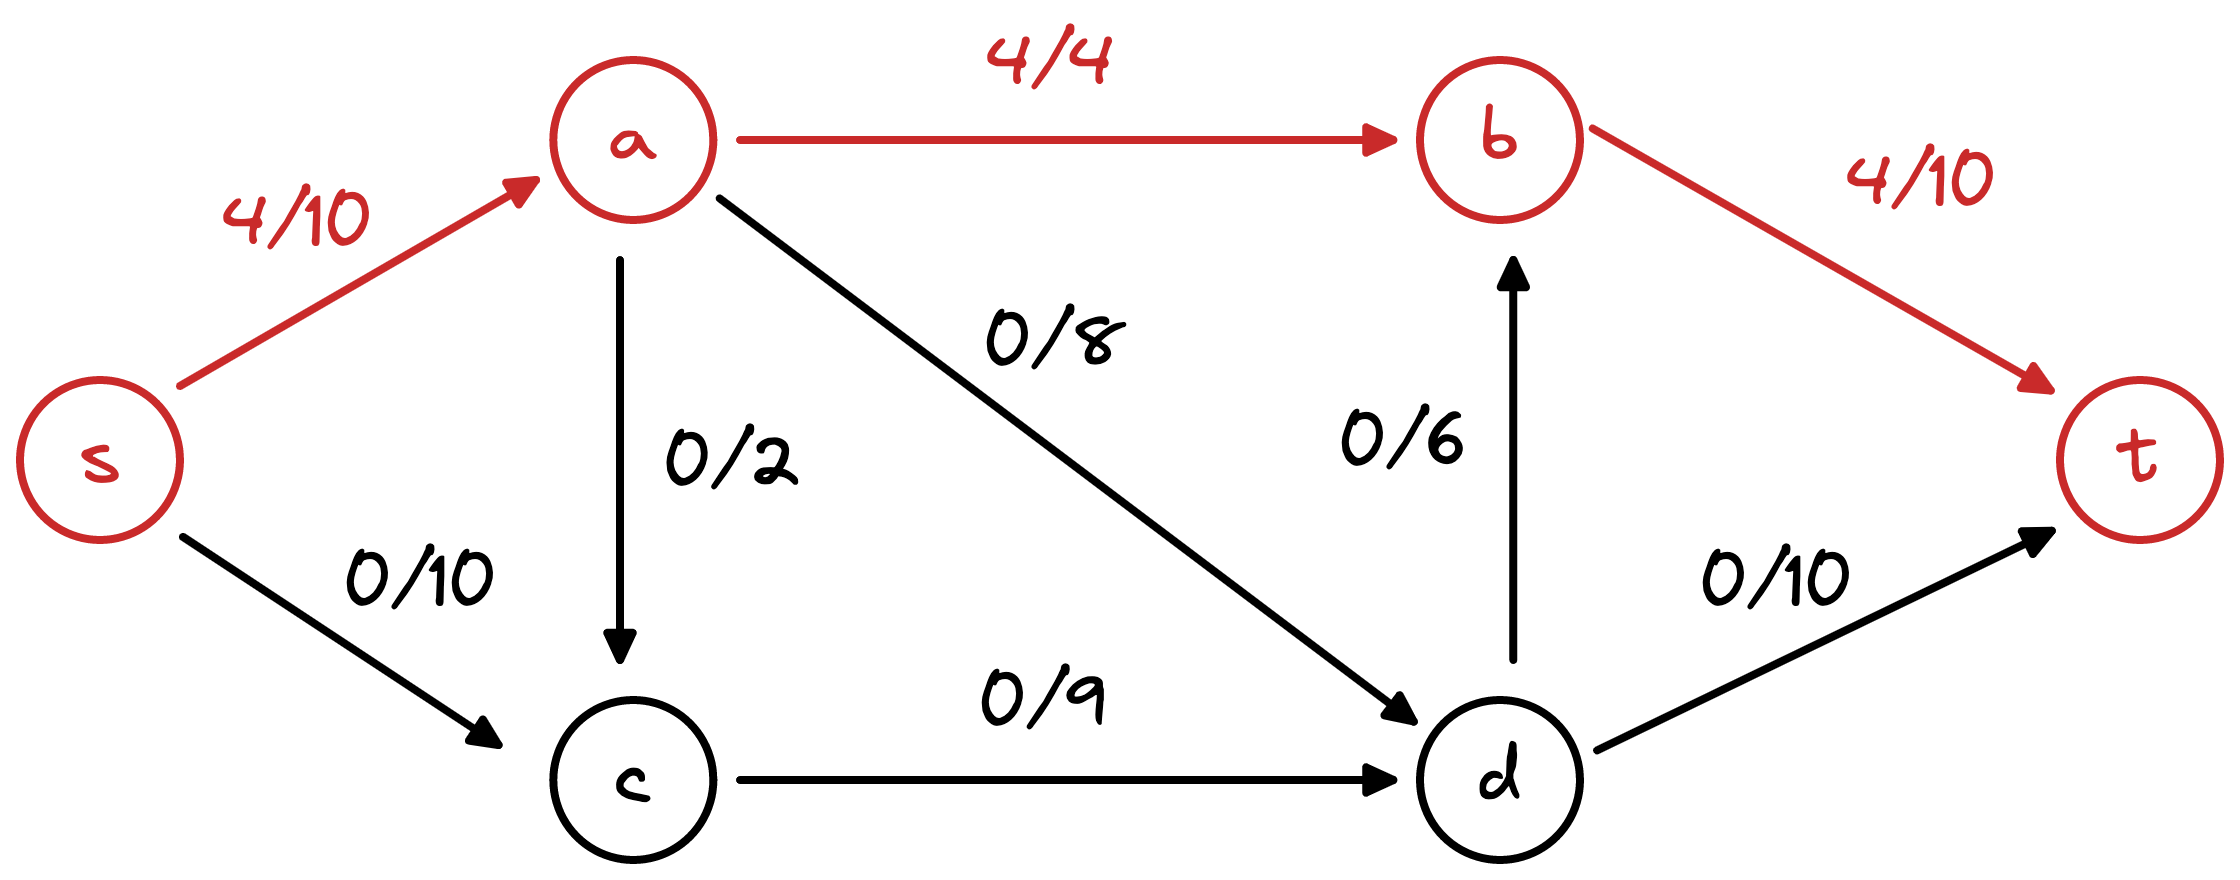
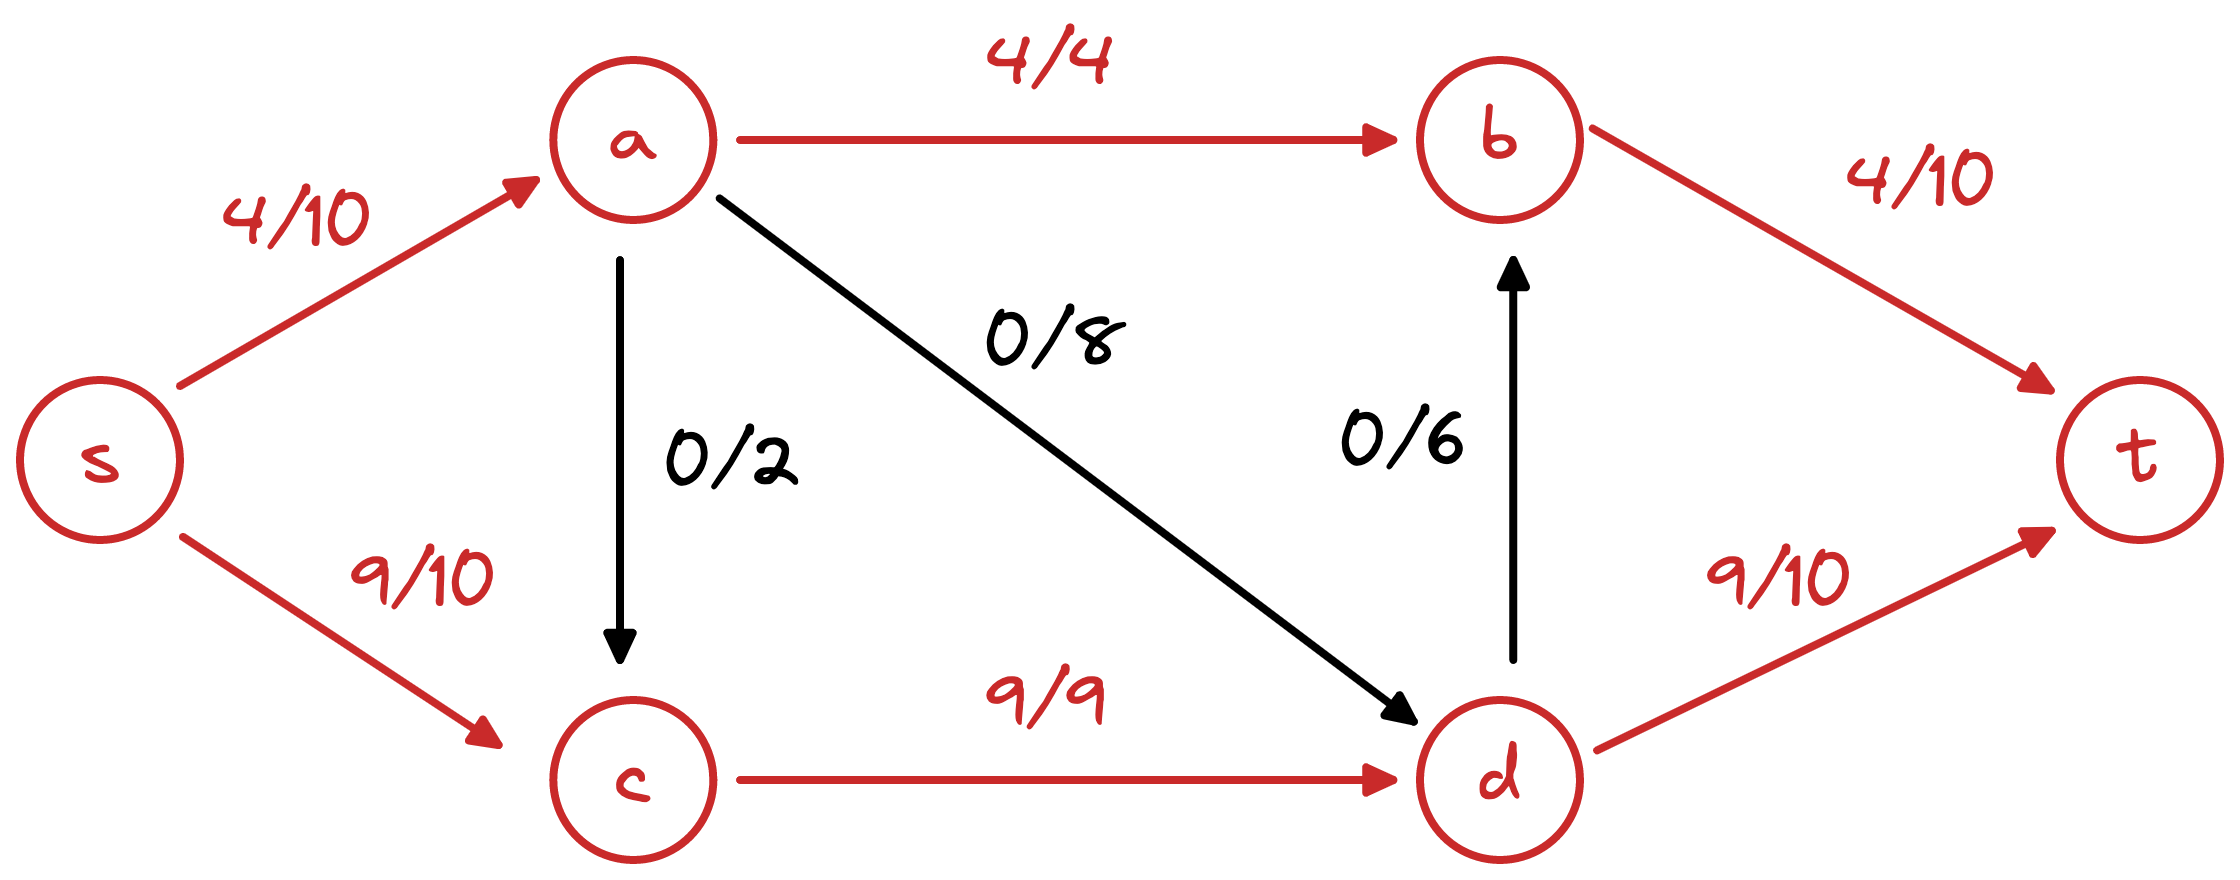
GitBook: [#4] No subject

diff --git a/di-liu-jiang-wang-luo-liu/6.1-zui-da-liu-wen-ti-fordfulkerson-suan-fa.md b/di-liu-jiang-wang-luo-liu/6.1-zui-da-liu-wen-ti-fordfulkerson-suan-fa.md
@@ -1,0 +1,56 @@
+# 6.1 最大流问题 & Ford-Fulkerson算法
+
+## 最大流问题
+
+### 直观理解
+
+给定如下的有向图(directed graph) $$G(V,E)$$：
+
+* 每条边上的数值对应于该边的容量(capacity)，即允许通过该边的最大值。
+* 节点s与节点t表示流(flow)的起始与终止位置。
+* 对于这样的图，我们称之为网络流图(flow network)。
+
+<figure><img src="../.gitbook/assets/第六讲-1.png" alt="directed graph"><figcaption><p>flow network</p></figcaption></figure>
+
+
+
+在flow network中，我们可以有如下的flow，其中<mark style="color:red;">4/10</mark>(左上角的边)表示边的capacity为10，通过该边的flow的值为4。
+
+<figure><img src="../.gitbook/assets/image.png" alt=""><figcaption><p>example 1 </p></figcaption></figure>
+
+除了上面的，我们还可以有其他的flow：
+
+<figure><img src="../.gitbook/assets/image (2).png" alt=""><figcaption><p>example 2</p></figcaption></figure>
+
+所以问题在于，给定一个上述的flow network，如何找到该network允许通过的flow的最大值？
+
+> Given a flow network, find a flow of maximum possible value
+
+举一个实际中的例子，我们可以将边考虑成水管，节点认为是阀门。最大流问题就成了：如何确定一个互相连通的系统中某一时刻水流量的最大值。每条边的capacity也即是水管的容量。
+
+另一个例子是：在战时，我们想从一个城市(s)到另一个城市(t)运送战略物资，每个节点就是运送过程中需要途经的城市，每条边的capacity就是两个城市之间交通系统每天的运载量。问题是：每天我们最多能够运送多少物资到目的地？
+
+### 形式化定义
+
+上面的描述实际上太过于模糊，我们需要对该问题进行清晰的、形式化的定义。
+
+> 下面会设计到大量的数学定义，但是他们都是可以被理解的。
+
+首先我们定义flow network：
+
+* flow network是指满足以下条件的graph：
+  * directed
+  * 每条边有对应capacity，并且capacity >=0，capacity非负
+  * 有且仅有一个点(s)没有入边，有且仅有一个点(t)没有出边
+    * 其他的节点都需要同时有出边与入边
+
+flow network的定义是直观的。接着我们定义**flow**：
+
+* **(s-t) flow**
+  * 是定义在flow network上的一个**函数**，将flow network每一条边(**e**)映射为一个**实数**，即：$$f: E \rightarrow R^+$$
+    * 即 对于一个flow，我们需要指明每一条边上通过flow是多少，如example 1与2中，每天边/左边的数就是其对应的flow的值，即f(e)
+    * s-t flow中的s-t是指明flow的起始节点与终止节点
+  * 每个flow需要满足两个条件：
+    * **capacity:** 对于每一条边 **** $$e \in E, \; 0 \le f(e) \le c(e)$$, 即对于每一条边上的flow，我们要求其必须介于零与该边所能承载的最大值(capacity)之间。
+      * 这同样是直观的，回到水管的例子，水管中的水流量不能超过水管的容量，同时也不能为负（也许可以定义为反着流，但是在我们的例子中水都是沿着水管往一个方向流，不允许出现反向流动）
+    * **conservation:** 对于每一个节点(除开s与t), $$v \in V-\{s,t\}$$，其流入的flow等于流出的flow：

diff --git a/SUMMARY.md b/SUMMARY.md
@@ -2,4 +2,4 @@
 
 * [算法分析与复杂性理论-PKU2022](README.md)
 * [第六讲：网络流](di-liu-jiang-wang-luo-liu/README.md)
-  * [6.1 问题、Ford-Fulkerson算法](di-liu-jiang-wang-luo-liu/6.1-wen-ti-fordfulkerson-suan-fa.md)
+  * [6.1 最大流问题 & Ford-Fulkerson算法](di-liu-jiang-wang-luo-liu/6.1-zui-da-liu-wen-ti-fordfulkerson-suan-fa.md)
